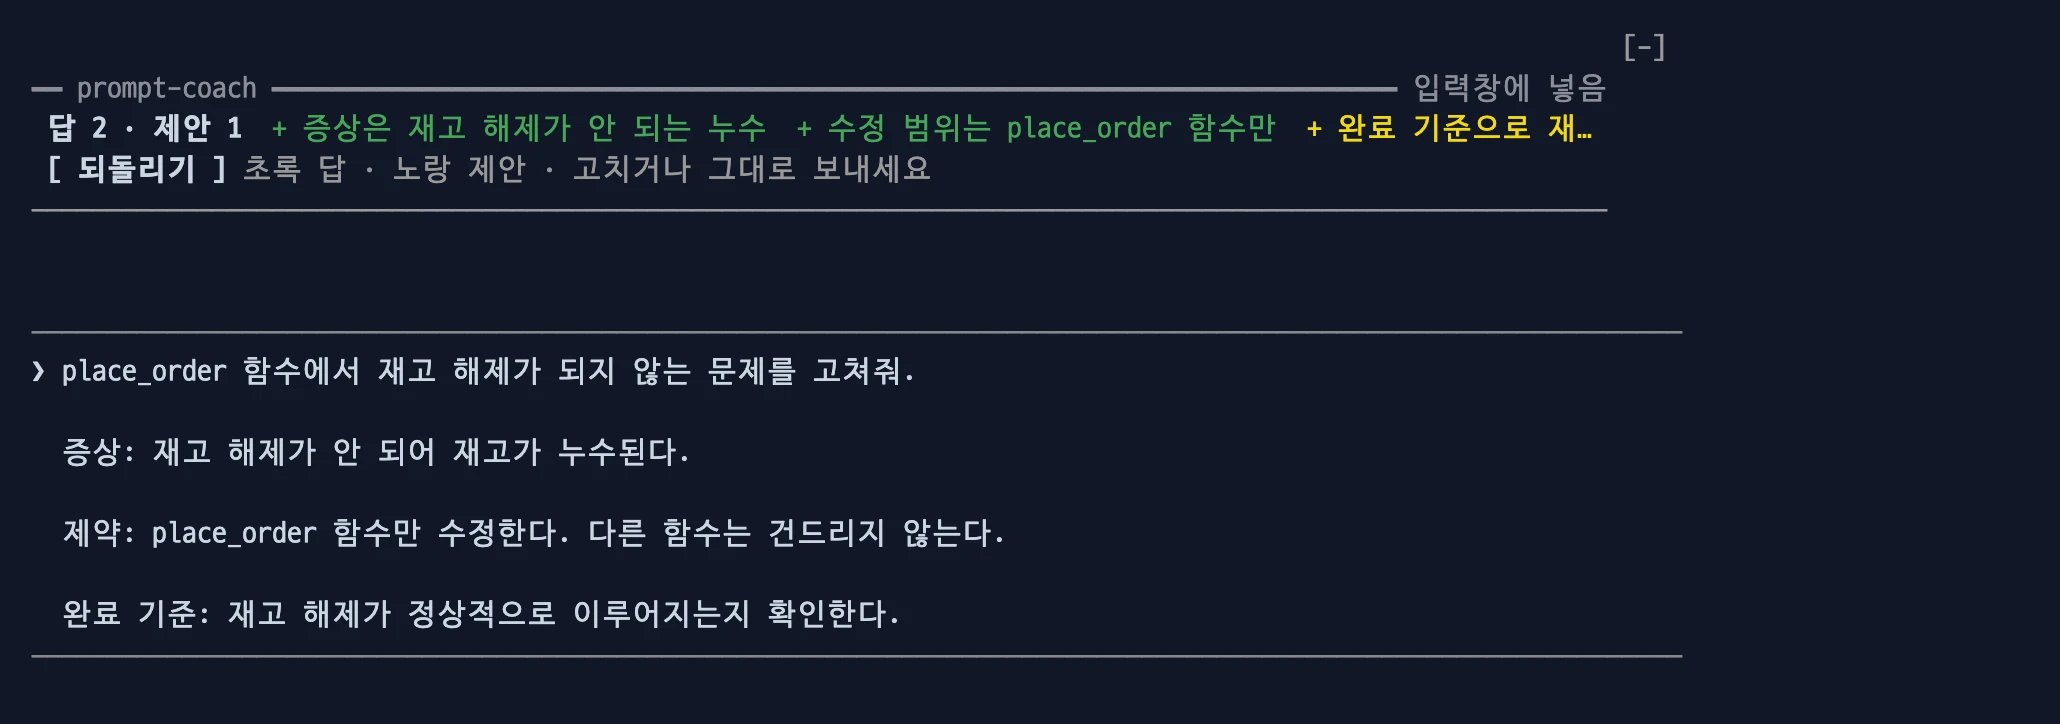
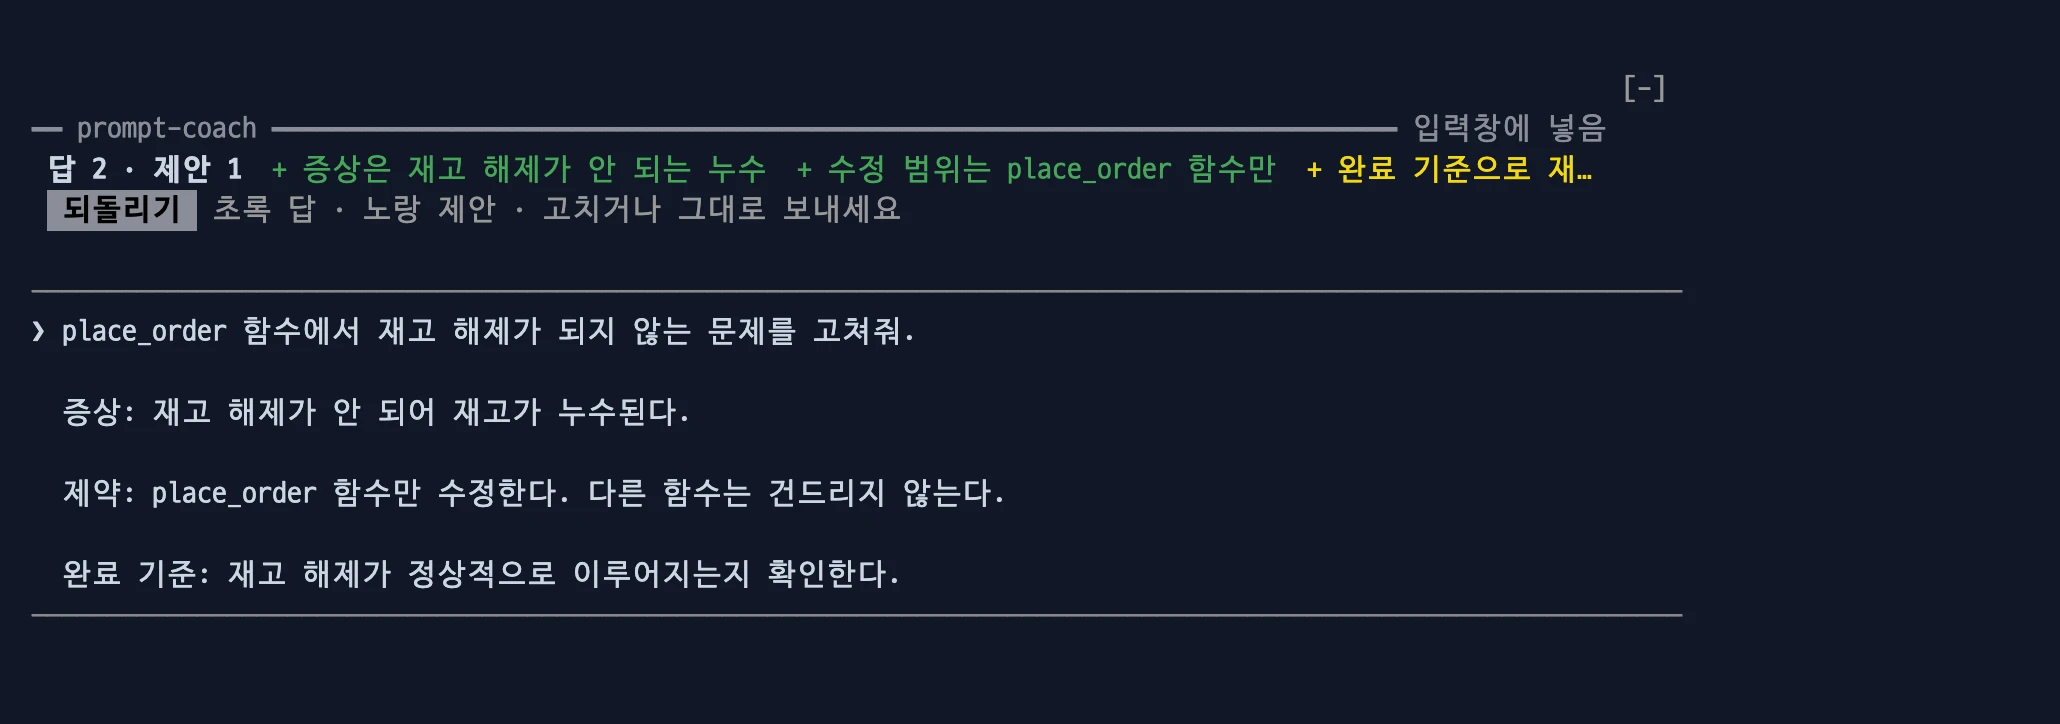
docs: add the changelog entries for team-board 0.29.27, next-steps 0.3.8, prompt-coach 0.3.15 and image-preview 0.3.2 (band rows worked out from maxRows and shared state for Claude Code 2.1.323), and bring README.md and docs/team-board.md in line with the chip buttons, the rule over the chip row and
Claude-Session: https://claude.ai/code/session_01KG1wdm83H9b3ZYoxyhJH2T

Reshoot prompt-coach-band, -result, -template and -auto.webp with the marker, the chip buttons and the 0.3.14 question layout.

Changed region(s): [[0.0, 0.395, 0.8078, 0.9116], [0.0, 0.0608, 0.8078, 0.3343]]

diff --git a/CHANGELOG.md b/CHANGELOG.md
@@ -62,6 +62,14 @@
 
 ## team-board
 
+### 0.29.27 (2026-11-13)
+- Claude Code 2.1.323 부터 입력창 위 띠를 mod 마다 따로 묻습니다. 전에는 팀 창이 줄 수를 떼어 다음 mod 에 넘겼는데, 이제 그 값이 닿지 않아 30줄 창에서 `↓ 4 more` 가 뜨고 아래 띠가 가려졌습니다. 팀 창이 받은 줄 수와 다른 mod 의 상태(제안 수, 이미지, 초안, 다듬기 단계)만 보고 제 줄 수를 정하도록 바꿨습니다. 규칙은 `docs/band-rows.md` 에 있습니다. 2.1.322 이하에서도 같은 코드로 동작합니다.
+- prompt-coach 가 다듬는 동안(질문 만들기·질문·다시 쓰기·넣음) 팀 창은 한 줄 모양입니다. 전에는 질문 중에만 그랬습니다.
+- image-preview 가 띠 안에 이미지 카드를 열면 팀 창이 그 줄만큼 줄고(1줄은 남깁니다), 닫으면 돌아옵니다.
+- 이 세션의 상태가 처음 저장되기 전에는 팀 창을 그리지 않습니다(입력창이 뜨고 약 0.6초). 다른 mod 가 팀 줄을 남기기 전에 그려 넘치는 것을 막습니다.
+- 초안만 있는 혼자 세션은 띠 자리가 4줄일 때 창 모양 대신 한 줄 모양입니다. 다듬기 줄을 이미지가 없어도 세기 때문입니다.
+- 실화면(2026-11-13, Claude Code 2.1.323, 160칸, 창 20~40줄, 설정 순서 3종 × 상태 6종): 줄 수가 `docs/band-rows.md` 표와 모두 같고 `↓ n more` 가 없습니다. 2.1.322 는 창 20·24·30·40줄에서 줄 수가 같고, 띠가 놓이는 순서만 다릅니다.
+
 ### 0.29.26 (2026-11-09)
 - `/board` 도움말의 첫 상자를 「패널 조작」으로 바꾸고, 다른 묶음처럼 한 줄에 하나씩 둡니다: `PgUp/PgDn` 스크롤(마우스 휠도), `Home` 맨 위로, `Tab` 다음 버튼, `Enter` 버튼 누르기, `Esc` 닫기, `[자세히 →]` 그 세션 자세히 보기. 전에는 한 줄에 이어 써서 `Tab/Enter 버튼` 처럼 두 동작이 섞였습니다. 키 칸은 명령 칸보다 좁게 따로 두고, 좁은 창에서도 두 칸입니다. 펼친 도움말은 90칸에서 약 45줄 → 약 50줄(실측)입니다.
 
@@ -564,6 +572,14 @@
 
 ## prompt-coach
 
+### 0.3.15 (2026-11-13)
+- 다듬기 줄이 이미지 칩 줄이나 다음 요청 제안과 붙어 구분이 어렵던 것을 고쳤습니다. 줄 맨 앞에 주황 `▎` 표시를 두고, `[ 다듬기 ]`·`[ 되돌리기 ]` 를 배경색 칩(` 다듬기 ` 주황, ` 되돌리기 ` 회색)으로 그립니다. 줄을 쓰지 않아 띠 자리가 1줄이어도 보입니다. 도움말과 안내 문구의 `[다듬기]` 표기도 "다듬기 버튼"으로 바꿨습니다.
+- 다른 띠(팀 창, 제안, 칩 줄)가 함께 있고 줄이 남으면 다듬기 줄 위에 `━━ prompt-coach ━━` 가로줄을 둡니다. 제안 목록이 펼칠지 먼저 정하고 남은 줄로만 두므로, 가로줄 때문에 목록이 접히지는 않습니다. 제안 3개 + 초안이면 창 26·36·40줄에서 생기고, 목록이 막 펼쳐지는 30줄과 24줄 이하에서는 없습니다. 칩 줄 옆에 두던 빈 줄은 없앴고, 그 구분은 image-preview 0.3.2 의 `── image-preview ───` 가 합니다.
+- Claude Code 2.1.323 부터 입력창 위 띠를 mod 마다 따로 묻습니다. 줄 수를 받은 값과 다른 mod 의 상태만 보고 정하도록 바꿨습니다(`docs/band-rows.md`). 줄이 모자라면 제안 한 줄과 칩 줄이 다듬기 줄보다 먼저 남고, 다듬는 동안의 화면은 칩 줄과 팀 한 줄을 남긴 나머지를 씁니다(1줄뿐이면 이 화면이 남습니다). 2.1.322 이하에서도 같은 코드로 동작합니다.
+- 붙여 넣은 이미지로 끝나는 초안을 다듬을 때, 질문에서 처음 누른 숫자가 선택지를 고르지 않고 ` 1` 처럼 글자로 들어가던 것을 고쳤습니다. Claude Code 가 이미지를 붙인 뒤 "다음 키 앞에 띄어쓰기"를 기억하는데, mod 가 입력창을 비워도 그 기억이 남기 때문입니다(2.1.322·2.1.323 에서 확인). 질문 중 빈 입력창에 들어온 첫 글자 앞의 그 공백을 뗍니다.
+- 실화면(2026-11-13, Claude Code 2.1.323, 160칸, 창 20~40줄, 설정 순서 3종 × 상태 6종): 줄 수가 `docs/band-rows.md` 표와 모두 같고 `↓ n more` 가 없습니다. 2.1.322 는 창 20·24·30·40줄에서 줄 수가 같습니다. 이미지로 끝나는 초안의 숫자 선택은 두 버전에서 확인했습니다.
+- 알려진 한계: 세션을 시작하자마자(0.1초 안) 친 초안은 한 글자를 더 칠 때까지 다듬기 줄이 뜨지 않습니다. 80칸·30줄 창의 질문 화면은 팀 한 줄 바로 아래에 가로줄 없이 붙습니다.
+
 ### 0.3.14 (2026-11-11)
 - 질문 화면: 창에 줄이 남으면 초안과 질문 사이를 한 줄 띄우고 선택지를 질문 글 아래로 들여 씁니다. 한 줄 더 남으면 선택지와 안내 사이도 띄웁니다. 전에는 초안·질문·선택지·안내 4줄이 붙어 있었습니다. 줄이 남지 않으면 전과 같습니다(실화면 200칸: 34줄 이상 빈 줄 2개, 32줄 1개, 31줄 이하 전과 같음).
 - 변환 중: 스피너·단계·경과 초를 띠 왼쪽의 주황 칩(` ⠋ 1/2 질문 만드는 중 · 3초 `)으로 보입니다. `1/2` 는 질문 만들기, `2/2` 는 다시 쓰기입니다. 전에는 머리줄 오른쪽 끝에 1칸 스피너와 회색 글로 있어 눈에 띄지 않았습니다. 색은 테마의 `claude` 색이라 밝은 테마에서도 보입니다. `/coach view` 의 대기 문구도 같은 색입니다.
@@ -664,6 +680,13 @@
 
 ## next-steps
 
+### 0.3.8 (2026-11-13)
+- Claude Code 2.1.323 부터 입력창 위 띠를 mod 마다 따로 묻습니다. 줄 수를 받은 값과 다른 mod 의 상태만 보고 정하도록 바꿨습니다(`docs/band-rows.md`). 이미지 칩 줄, prompt-coach 다듬기 줄, 팀 한 줄에 1줄씩 남기고도 자리가 되면 목록을 펼치고, 안 되면 한 줄에 모읍니다. 2.1.322 이하에서도 같은 코드로 동작합니다.
+- prompt-coach 가 다듬는 동안에는 제안을 그리지 않습니다. 2.1.323 에서는 두 mod 가 같은 숫자 키를 그리면 둘 다 눌리지 않기 때문입니다.
+- 다듬기를 취소하거나 입력창을 비우면 제안이 다시 보입니다. 전에는 prompt-coach 가 질문을 띄울 때 제안을 지워서 돌아오지 않았습니다. 보내면 전처럼 지웁니다.
+- 다른 띠(엔진 Heads up 등)에 같은 숫자 버튼이 있을 때 숫자를 양보하는 동작은 2.1.322 이하에서만 됩니다. 2.1.323 에서는 다른 띠가 그린 것을 볼 수 없습니다.
+- 실화면(2026-11-13, Claude Code 2.1.323, 160칸, 창 20~40줄, 설정 순서 3종 × 상태 6종): 줄 수가 `docs/band-rows.md` 표와 모두 같고 `↓ n more` 가 없습니다. 2.1.322 는 창 20·24·30·40줄에서 줄 수가 같고, 띠가 놓이는 순서만 다릅니다.
+
 ### 0.3.7 (2026-11-05)
 - 다음 요청 제안이 떠 있을 때 이미지를 붙이면 image-preview 칩 줄이 사라지던 것을 고쳤습니다. 칩 줄과 `[ 다듬기 ]` 줄 몫으로 2줄을 남기고, 모자라면 제안의 가로줄을 먼저 뺍니다.
 - 실화면(2026-11-05, Claude Code 2.1.318, 80칸, 제안이 뜬 상태): 30·26·24줄에서 칩 줄·`[ 다듬기 ]` 줄·제안 한 줄이 함께 보이고 `↓ more` 가 없습니다. 20줄에서는 제안만 남고 칩 줄과 `[ 다듬기 ]` 줄이 숨습니다.
@@ -722,6 +745,15 @@
 - 처음 공개: 답변이 끝나면 다음 요청 제안 2~3개(Haiku), 빈 입력창에서 숫자로 초안 넣기, `/next` 사용량·켜기·끄기.
 
 ## image-preview
+
+### 0.3.2 (2026-11-13)
+- Claude Code 2.1.323 부터 입력창 위 띠를 mod 마다 따로 묻습니다. 줄 수를 받은 값과 다른 mod 의 상태만 보고 정하도록 바꿨습니다(`docs/band-rows.md`). 2.1.322 이하에서도 같은 코드로 동작합니다.
+- 다른 띠가 있고 줄이 남으면 칩 줄 위에 흐린 가로줄 `── image-preview ───` 를 둡니다. prompt-coach 다듬기 줄과 칩 줄이 붙어 구분이 어렵던 것을 나눕니다(이미지 + 초안은 창 26줄 이상, 제안도 있으면 30줄 이상에서 생깁니다).
+- 칩 `[Image #N]` 의 글자색을 테마의 suggestion 색(파랑 계열)으로 바꿨습니다. 전에는 prompt-coach 다듬기 줄과 같은 주황이라, 두 줄이 붙는 낮은 창에서 한 덩어리로 보였습니다.
+- 띠 안에 여는 이미지 카드의 줄 수를 team-board 가 읽을 수 있게 내보냅니다. 팀 창이 그만큼 줄어 카드가 넘치지 않습니다. 창 높이를 바꾼 직후에는 최대 0.5초 동안 카드를 그리지 않습니다.
+- prompt-coach 가 다듬는 동안에는 띠 안 카드와 칩 줄 위 가로줄을 그리지 않습니다. 띠 자리가 1줄뿐이면 다듬기 화면이 남고 칩 줄이 빠집니다.
+- 실화면(2026-11-13, Claude Code 2.1.323, 160칸, 창 20~40줄, 설정 순서 3종 × 상태 6종): 줄 수가 `docs/band-rows.md` 표와 모두 같고 `↓ n more` 가 없습니다. 2.1.322 는 창 20·24·30·40줄에서 줄 수가 같고, 띠가 놓이는 순서만 다릅니다.
+- 알려진 한계: tmux 안에서 터미널 종류를 Ghostty 로 알린 환경에서는 40줄 창의 띠 안 카드가 넘쳐 `↓ 5 more` 가 떴습니다. 실제 Ghostty 에서의 카드 높이는 확인하지 못했습니다.
 
 [midudev/better-claude](https://github.com/midudev/better-claude) 의 image-preview 를 가져와 고친 판입니다.
 

diff --git a/docs/team-board.md b/docs/team-board.md
@@ -20,7 +20,7 @@
 
 ## 팀 창
 
-팀 창은 입력창 위에 보입니다. 같은 저장소의 세션마다 칸이 하나씩 생깁니다. 다른 mod가 입력창 위에 그리는 영역(next-steps 제안, prompt-coach `[ 다듬기 ]` 등)이 있으면 팀 창은 그 위에 놓입니다(0.29.16). prompt-coach 가 질문을 띄운 동안에는 팀 창이 한 줄 모양으로 줄어 질문·선택지에 줄을 양보합니다(0.29.17). 자리가 3줄보다 작은 낮은 창(20줄쯤)에서는 질문하는 동안 팀 창을 숨깁니다(0.29.18). 질문 글은 /board 에 보입니다. next-steps 제안이 떠 있으면 제안에 1줄 이상 남깁니다. 창 모양으로 줄이 남지 않으면(24·26줄쯤) 한 줄 모양으로, 한 줄 모양으로도 남지 않으면(20줄쯤) 팀 창을 그리지 않습니다. `0` 으로 목록을 닫으면 원래 모양으로 돌아옵니다. next-steps 가 바깥이면 제 줄을 먼저 떼므로 양보하지 않습니다(0.29.19, next-steps 0.3.4).
+팀 창은 입력창 위에 보입니다. 같은 저장소의 세션마다 칸이 하나씩 생깁니다. 다른 mod가 입력창 위에 그리는 영역(next-steps 제안, prompt-coach `다듬기` 등)이 있으면 팀 창은 그 위에 놓입니다(0.29.16). prompt-coach 가 질문을 띄운 동안에는 팀 창이 한 줄 모양으로 줄어 질문·선택지에 줄을 양보합니다(0.29.17). 자리가 3줄보다 작은 낮은 창(20줄쯤)에서는 질문하는 동안 팀 창을 숨깁니다(0.29.18). 질문 글은 /board 에 보입니다. next-steps 제안이 떠 있으면 제안에 1줄 이상 남깁니다. 창 모양으로 줄이 남지 않으면(24·26줄쯤) 한 줄 모양으로, 한 줄 모양으로도 남지 않으면(20줄쯤) 팀 창을 그리지 않습니다. `0` 으로 목록을 닫으면 원래 모양으로 돌아옵니다. next-steps 가 바깥이면 제 줄을 먼저 떼므로 양보하지 않습니다(0.29.19, next-steps 0.3.4).
 
 - 입력창 위 영역은 줄 수가 정해져 있고, 넘치면 Claude Code 가 위부터 보여 주고 나머지를 `↓ n more` 로 접습니다. 팀 창을 위에 두어 결정 대기·실패 표시가 잘리지 않게 합니다.
 - 팀 창은 자기 줄 수를 먼저 정하고, 남은 줄 수만 아래 mod에 알려 줍니다. next-steps 는 그 줄 수에 맞춰 제안을 한 줄로 줄입니다. 줄 수를 줄이지 않는 영역은 아래쪽이 접힙니다.
